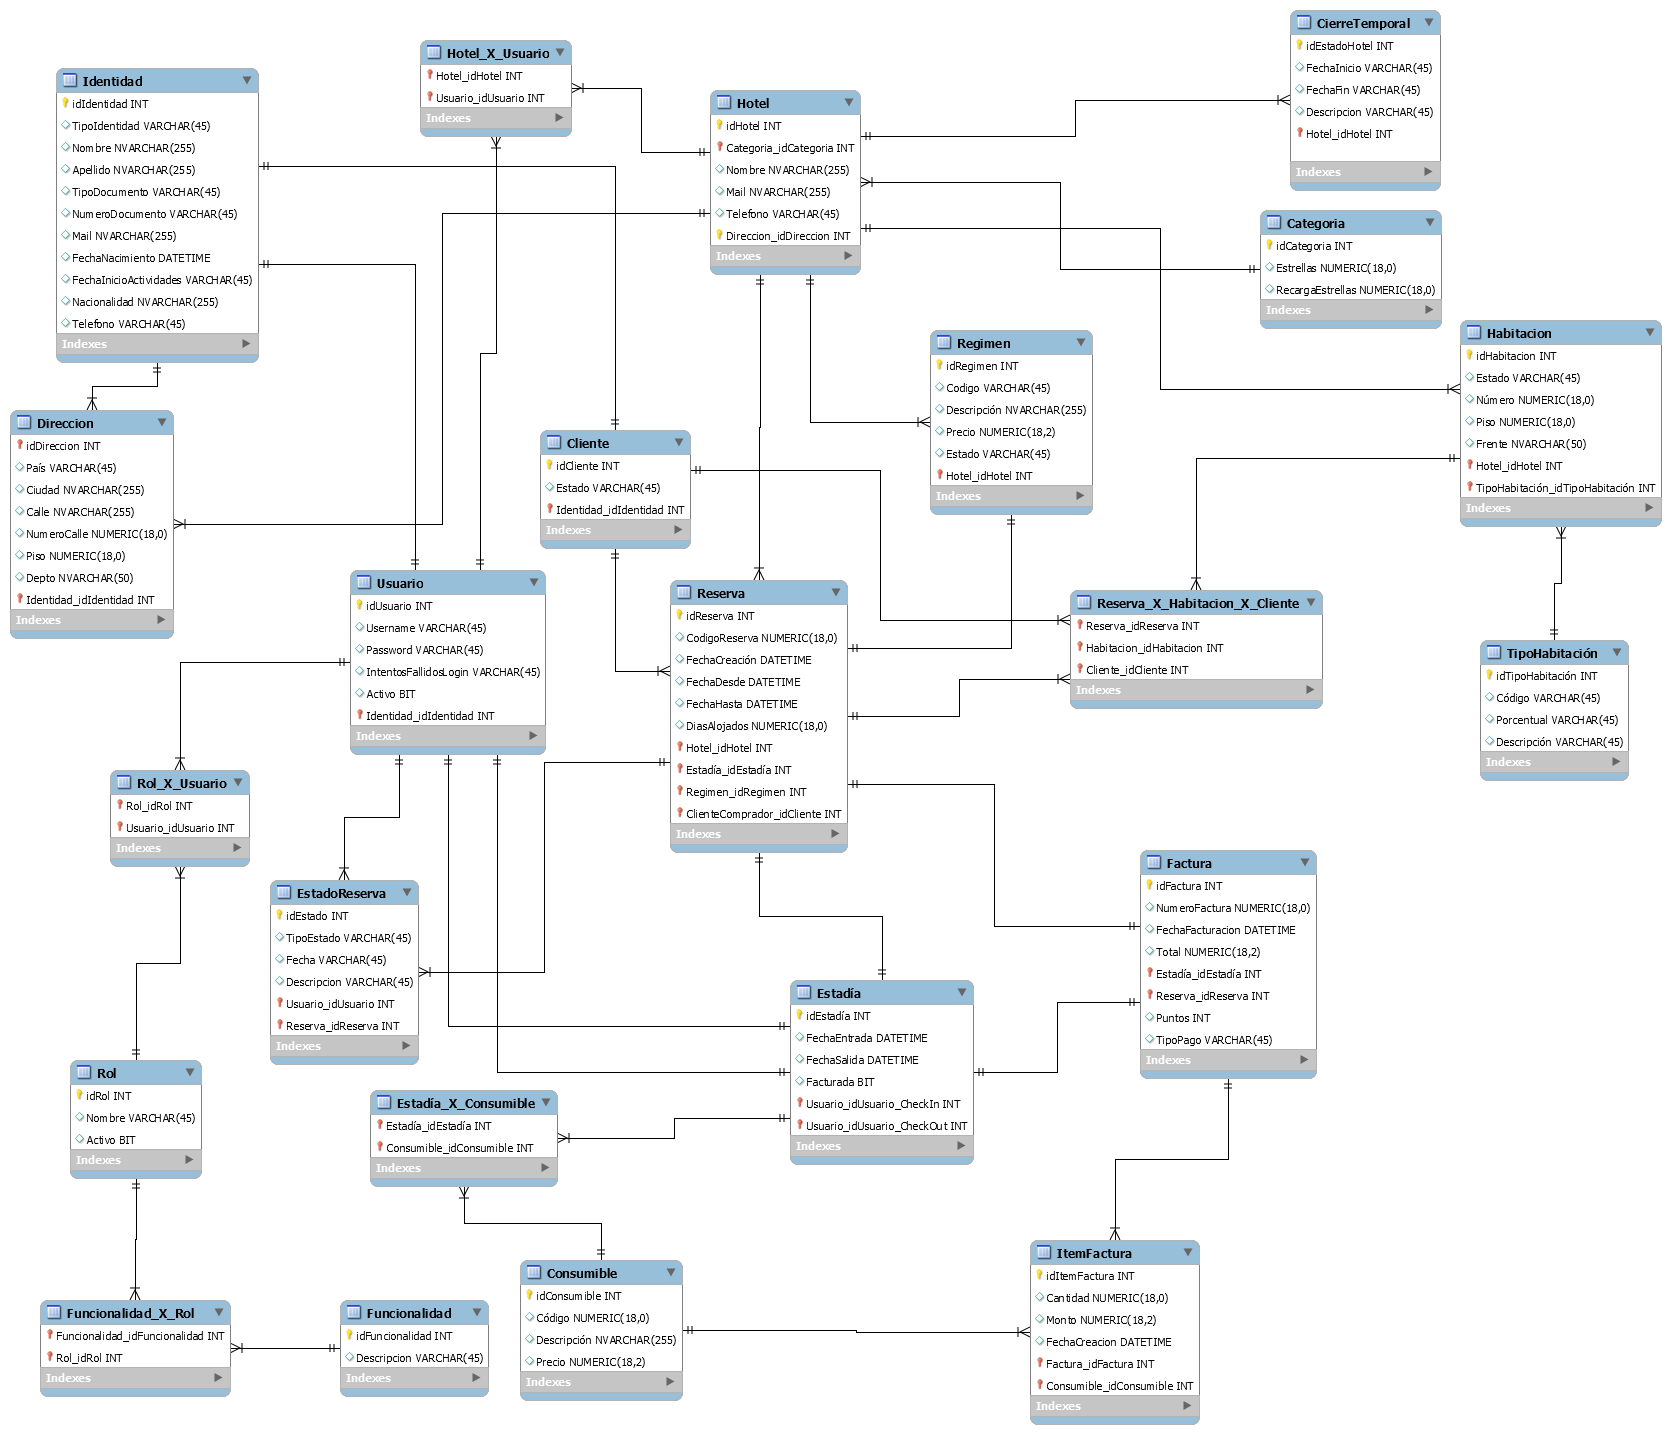
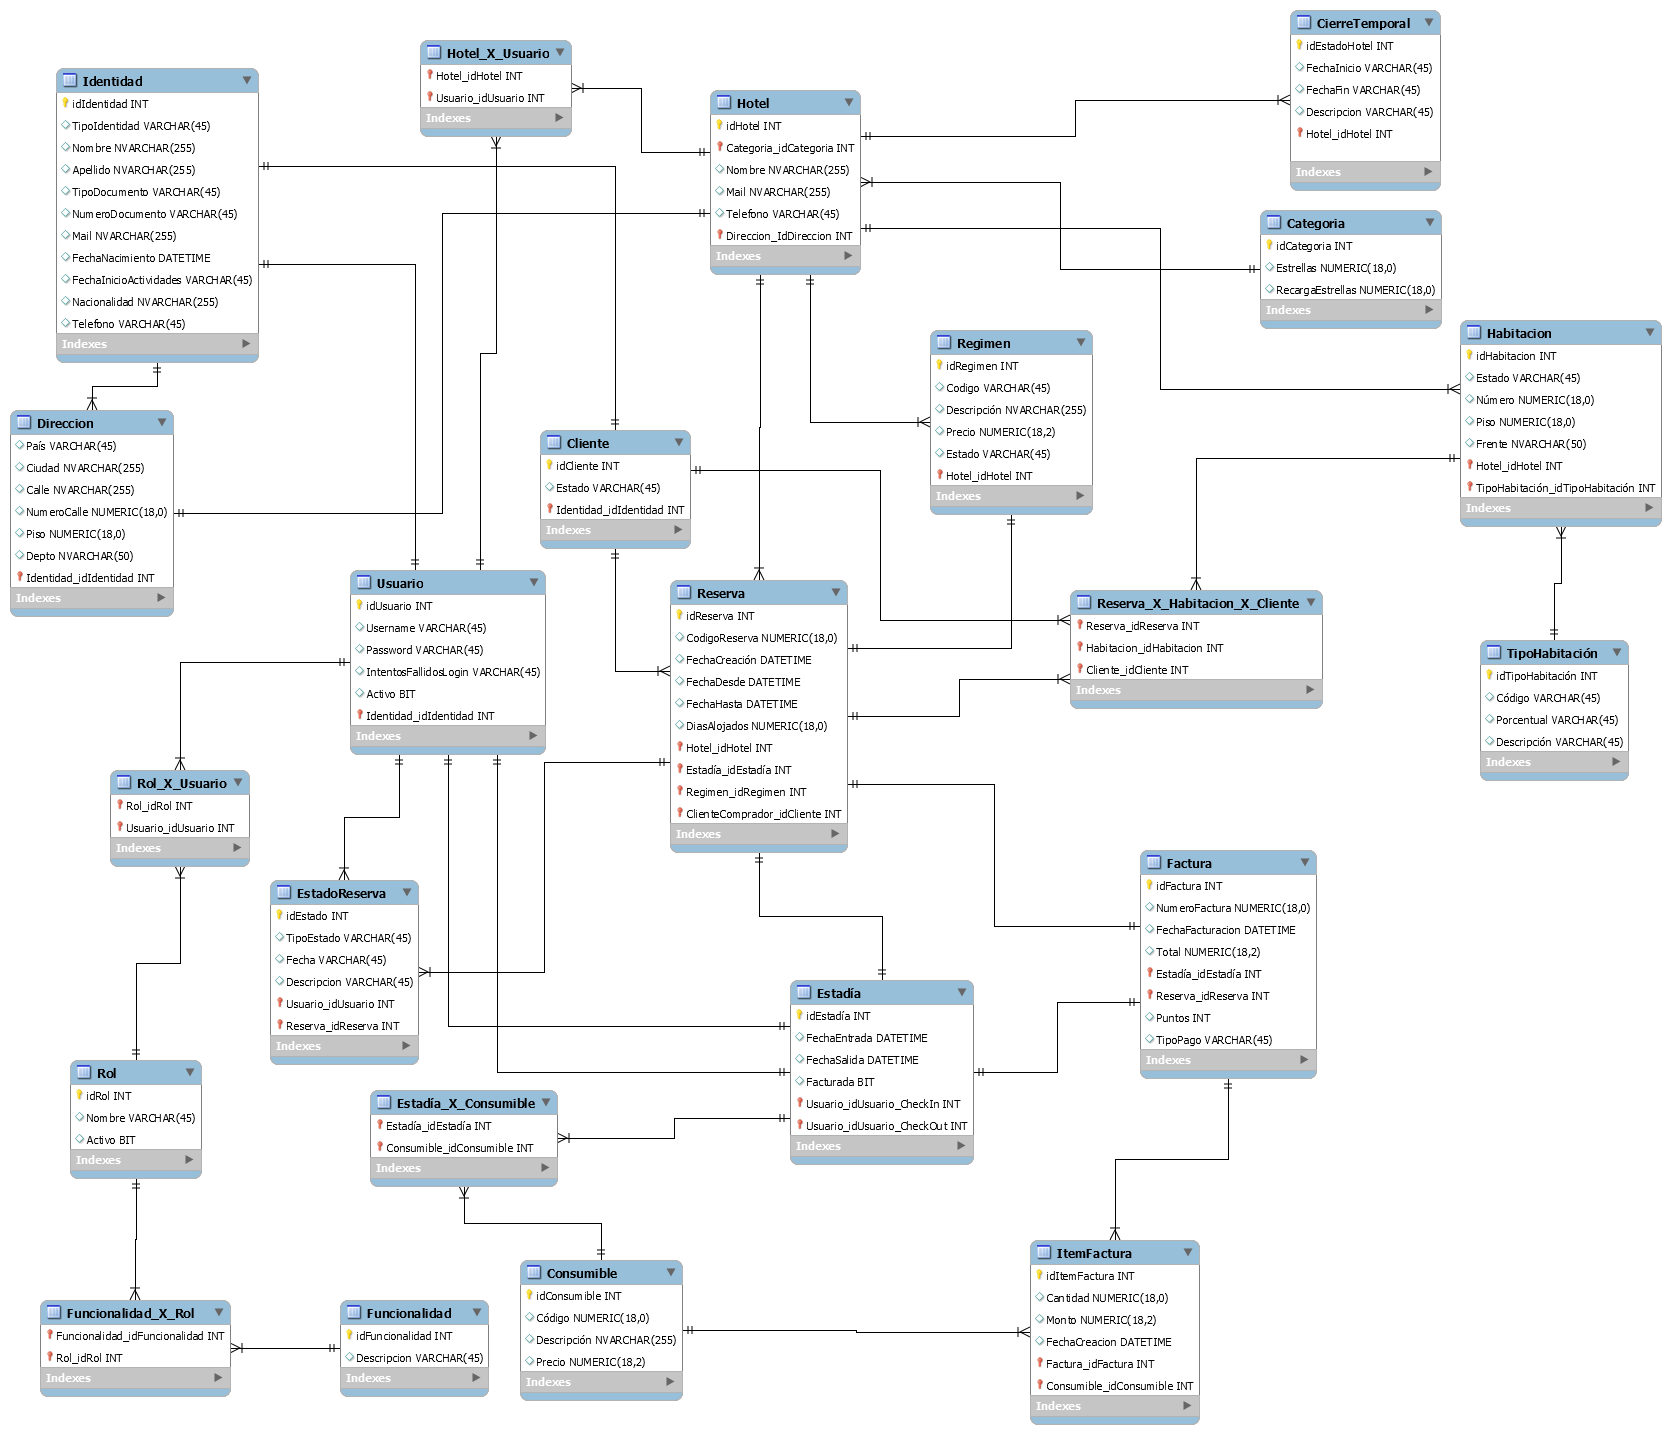
Se corrige la relacion entre Hotel y Direccion en el DER

Changed region(s): [[0.0, 0.3068, 0.1245, 0.4603], [0.4668, 0.1534, 0.4979, 0.1841]]

diff --git a/Modelo/Hotel.cs b/Modelo/Hotel.cs
@@ -1,0 +1,27 @@
+using System;
+using System.Collections.Generic;
+using System.Linq;
+using System.Text;
+using System.Threading.Tasks;
+
+namespace FrbaHotel.Modelo
+{
+    public class Hotel
+    {
+        private int idHotel = 0;
+        private int idCategoria = 0;
+        private int idDireccion = 0;
+        private String nombre = "";
+        private String mail = "";
+        private String telefono = "";
+        private List<Funcionalidad> funcionalidades = new List<Funcionalidad>();
+
+        public Rol(int idRol, String nombre, Boolean activo, List<Funcionalidad> funcionalidades)
+        {
+            this.idRol = idRol;
+            this.nombre = nombre;
+            this.activo = activo;
+            this.funcionalidades = funcionalidades;
+        }
+    }
+}
